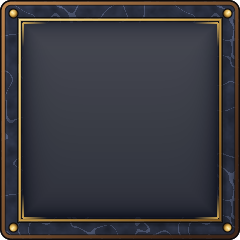
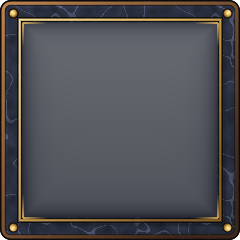
HD-2D atmosphere: heavy SSAO, golden-hour LUT, volumetric light, dust and floor mist; scanline neon grid; frosted-glass HUD panels and gold portrait frames
Claude-Session: https://claude.ai/code/session_01UHqCe3Atfdf2Td9hbtNQLv

diff --git a/godot/tools/art/build_ui.py b/godot/tools/art/build_ui.py
@@ -170,7 +170,7 @@ def panel(kind, size=240, margin=40, radius=11):
     # 4. glass center: translucent dark, a little lighter at the top, darker toward the trim
     glass_mask = np.clip(d - 21.8, 0, 1)
     grad = np.clip(ys / h, 0, 1)
-    a = 0.74 + 0.12 * grad + 0.14 * np.exp(-np.clip(d - 22, 0, None) / 9.0)
+    a = 0.6 + 0.12 * grad + 0.2 * np.exp(-np.clip(d - 22, 0, None) / 9.0)  # translucent: frosted in game (shaders/ui_glass)
     sheen = np.exp(-ys / 34.0) * 0.07
     glass_rgb = np.asarray(GLASS, np.float32)[None, None, :] + (np.asarray((60, 72, 110), np.float32) * sheen[..., None])
     # the glass replaces the band's alpha inside the trim so the backdrop shows through

diff --git a/godot/README.md b/godot/README.md
@@ -241,6 +241,9 @@ All 2D, no 3D nodes: a `WorldEnvironment` (SSAO, glow, color correction) only ac
 ### 3D board (`scripts/stage/board_3d.gd`, the battle screen)
 
 The battlefield is a true 3D board built from the map and the tile art: every tile is a column of real geometry (top quad plus wall quads down to the lower neighbour, outer walls to `BASE` below zero), a warm `DirectionalLight3D` sun with soft real-time shadows (`light_angular_distance` gives PCSS softening; from the screen's front-left, so shadows fall up-right) and two soft omni fills, `WorldEnvironment` with a `ProceduralSkyMaterial` backdrop (deep blue to a dusky horizon; the camera looks down, so the visible part is the sky's ground half) that also lights the shadows, light depth and height fog so the board's base fades into the air, SSAO, glow, filmic tonemap and grading, and a perspective `Camera3D` (default pitch -50 degrees, 28 degree lens, orbit with `rotate_view`) with depth-of-field blur for the miniature look. Units are upright `AnimatedSprite3D` billboards (`BILLBOARD_FIXED_Y`, nearest filtering with no mipmaps, size `UNIT_SCALE`) standing on the tops. An upright quad seen from 50 degrees above is squashed to cos(pitch) = 0.64 of its height and reads like a flat card, so `_fit_unit` stretches it by 1/cos(pitch) on Y: on screen the sprite has its drawn proportions while it stays vertical. Units are unshaded with a warm modulate (a camera-facing quad lit from the side reads as a dark cutout); an invisible capsule per unit casts their shadow, because a flat billboard only casts a hairline.
+- **Atmosphere pass:** heavy SSAO (deep contact shadows between blocks), a golden-hour grade (`golden_hour_lut()`: a per-channel 1D color-correction curve, warm mids and gold highlights with saturation won back), soft-light glow on three levels, thin warm volumetric fog that the sun lights (`light_volumetric_fog_energy`), floating dust motes (`GPUParticles3D` "Dust") and a low mist sheet over the floor (`shaders/floor_mist.gdshader`, drifting noise that fades into the ground and blocks by depth).
+- **Floor grid:** `tile_highlight_3d.gdshader` draws cyan grid lines on every tile edge, a breathing pulse and rolling scanlines (strongest on walk and attack ranges) on top of the border glow.
+- **HUD glass:** textured panels over the battle use `shaders/ui_glass.gdshader` (`HudStyle.frost_panels`): the game shows blurred through their translucent glass center. Turn-order portraits use the gold ring `portrait_frame.png`, tinted per side.
 - The project runs on **Forward+** (Vulkan): SSAO, DoF and soft shadows do not exist in the Compatibility renderer. A computer without Vulkan support cannot run the game.
 - Picking (`pick`) casts the camera ray at every tile top and exposed wall and takes the nearest hit; framing (`frame_rect`) fits the board's outline into the screen space between the HUD bands with its own projection (works before the first frame). The camera is the board's child and the board sits at the origin.
 - Bare-board screenshot: `xvfb-run -a godot --path godot res://tests/diorama_shot.tscn -- out=/tmp/d.png [pitch=-45] [fov=30] [yaw=45] [ssao=0] [shadow=0]`.
